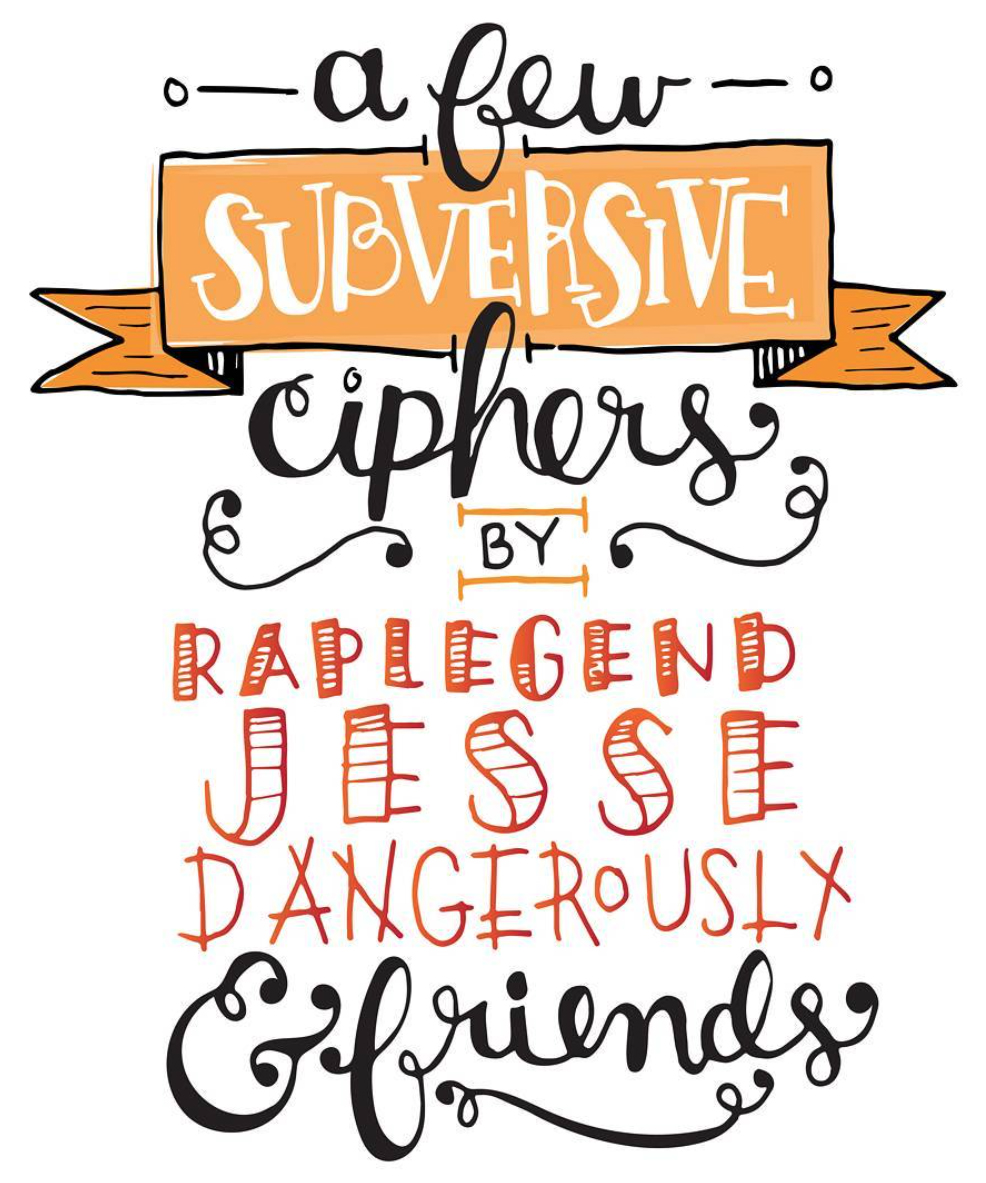
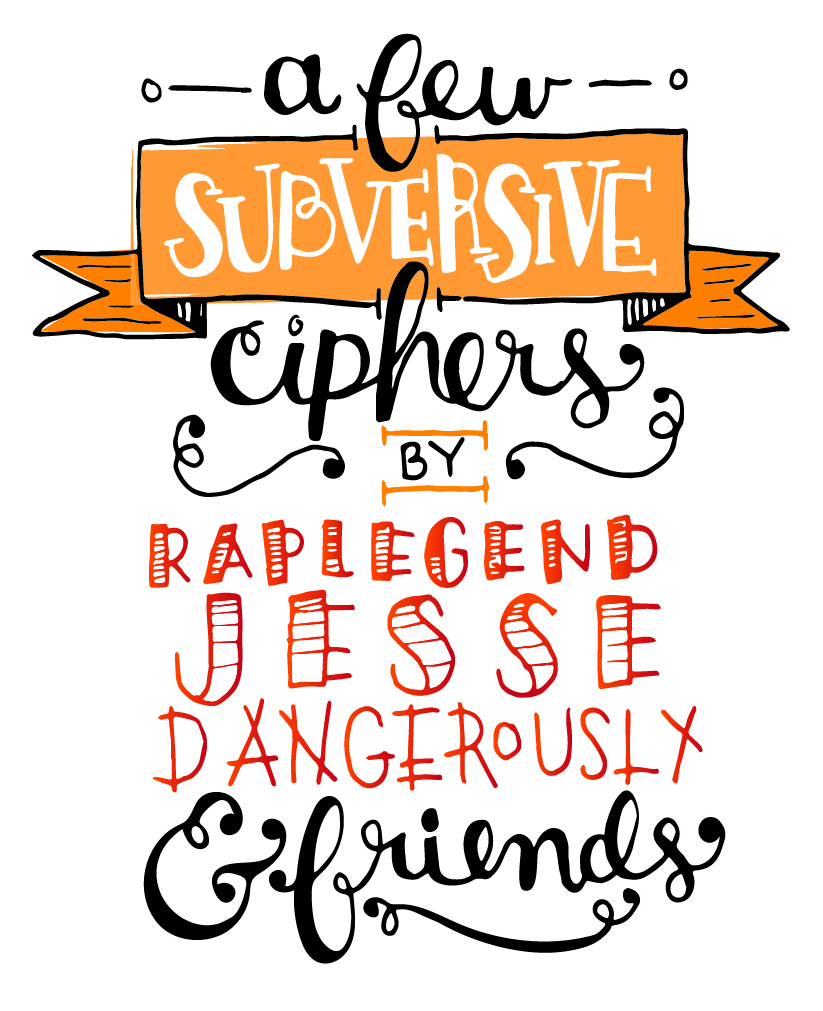
Re-did the entire lettering page

diff --git a/lettering.html b/lettering.html
@@ -6,37 +6,60 @@ title: Hand Lettering · Graphic Designer, Creative Professional · Ottawa, Cana
 <main class="island item-page">
 
   <div class="grid island wrapper">
-    <div class="unit xs-1 s-1 m-1-2 push-2">
-      <strong><img class="img-flex" src="{{site.baseurl}}/images/lettering-zine.jpg" alt="Hand Lettering"></strong>
+    <div class="unit xs-1 s-1 m-1-2 push-1-2">
+      <strong><img class="img-flex" src="{{site.baseurl}}/images/lettering-beer.jpg" alt="Hand Lettering"></strong>
     </div>
     <div class="unit xs-1 s-1 m-1-2 gutter pad-r-2">
       <h1 class="text-upper push-0">Hand Lettering</h1>
       <h2 class="mega">Typography, Lettering</h2>
       <hr>
-      <p class="kilo">I love to explore handlettering and am constantly practicing to improve this skill. When I'm relaxing at home, I'm often sketching in my notebook the lyrics to whatever music I'm listening to.</p>
-      <p class="kilo">I lettered the piece on the left as the cover to musician, Jesse Dangerously's cassette tape and lyric zine. I also love writing messages on cakes at the bakery I work at, Little Jo Berry's. I also did a large handlettered piece on the back of a door at the bakery as well.</p>
+      <p class="kilo">I love to explore handlettering and am constantly practicing to improve this skill. When I'm relaxing at home, I'm often sketching in my notebook the lyrics to whatever music I'm listening to or a quote from my favourite movie.</p>
+      <p class="kilo">I created the branding for a fictional beer company to showcase some of the possibilties of handlettered design.</p>
     </div>
   </div>
 
   <div class="grid max-width">
-    <div class="unit xs-1 s-1 m-1-4 gutter-1-4">
-      <figure>
-        <img class="img-flex" src="{{site.baseurl}}/images/lettering-cake.jpg" alt="Halloween Event Poster">
-        <figcaption>
-          <p class="milli push-0 text-center"></p>
-        </figcaption>
-      </figure>
+    <div class="unit xs-1 s-1-2 m-1-4 gutter-1-4 push-1-2">
+      <img class="img-flex" src="{{site.baseurl}}/images/lettering-beer2.png" alt="Initial sketches of the logo and beer type lettering.">
     </div>
-    <div class="unit xs-1 s-1 m-1-4 gutter-1-4">
-      <img class="img-flex" src="{{site.baseurl}}/images/lettering-cake2.jpg" alt="Halloween Event Poster">
+    <div class="unit xs-1 s-1-2 m-1-4 push-1-2 gutter-1-4">
+      <img class="img-flex" src="{{site.baseurl}}/images/index/index-lettering.jpg" alt="Finished beer labels.">
     </div>
-    <div class="unit xs-1 s-1 m-1-4 gutter-1-4">
-      <img class="img-flex" src="{{site.baseurl}}/images/lettering-cards.jpg" alt="Halloween Event Poster">
+    <div class="unit xs-1 s-1-2 m-1-4 gutter-1-4 push-1-2">
+      <img class="img-flex" src="{{site.baseurl}}/images/lettering-b-cards.jpg" alt="Business cards for fictional beer company.">
     </div>
-    <div class="unit xs-1 s-1 m-1-4 gutter-1-4">
-      <img class="img-flex" src="{{site.baseurl}}/images/lettering-door.jpg" alt="Halloween Event Poster">
+    <div class="unit xs-1 s-1 m-3-4 gutter-1-4 push-2">
+      <hr>
+      <p>I love craft beers, so I wanted to try designing an eye-catching beer label. I handlettered the logo as well as the type of beer for each the label. I used colour to define the visually define the different beers' identities. I also brought the logo throguh to a set of business cards.</p>
     </div>
+  </div>
 
+  <div class="grid max-width">
+    <div class="unit xs-1 s-1-2 m-1-4 gutter-1-4 push-1-2">
+      <img class="img-flex" src="{{site.baseurl}}/images/lettering-cake.jpg" alt="Handlettering on a cake.">
+    </div>
+    <div class="unit xs-1 s-1-2 m-1-4 gutter-1-4 push-1-2">
+      <img class="img-flex" src="{{site.baseurl}}/images/lettering-cake2.jpg" alt="Handlettering on a cake.">
+    </div>
+    <div class="unit xs-1 s-1 m-1-4 gutter-1-4 push-1-2">
+      <img class="img-flex" src="{{site.baseurl}}/images/lettering-door.jpg" alt="Handlettering on a door.">
+    </div>
+    <div class="unit xs-1 s-1 m-3-4 gutter-1-4 push-2">
+      <hr>
+      <p>These are a few examples of cakes I have lettered for the bakery I work at, Little Jo Berry's. I also handlettered the back of a door at the bakery with the tagline that the owner uses in her social media posts, "Break Up With Your Boyfriend."</p>
+    </div>
+  </div>
+
+    <div class="unit xs-1 s-1 m-1-4 gutter-1-4 push-1-2">
+      <img class="img-flex" src="{{site.baseurl}}/images/lettering-zine.jpg" alt="Handlettering for musician's zine..">
+    </div>
+    <div class="unit xs-1 s-1 m-1-4 gutter-1-4 push-1-2">
+      <img class="img-flex" src="{{site.baseurl}}/images/lettering-zine2.jpg" alt="Handlettering for musician's zine..">
+    </div>
+    <div class="unit xs-1 s-1 m-3-4 gutter-1-4 push-2">
+      <hr>
+      <p>I handlettered the cover of a local musician's album cover for his cassette release. He also used this piece for the cover of a lyrics zine he distributed to his fans.</p>
+    </div>
   </div>
 
 </main>

diff --git a/css/main.css b/css/main.css
@@ -99,13 +99,14 @@ nav a:hover {
 }
 
 .index-title {
-  background-color: #f7c241;
+  background-color: white;
   color: black;
+  opacity: 0.8;
 }
 
 .index-lettering {
-  padding-left: 33%;
-  padding-right: 33%;
+  padding-left: 34%;
+  padding-right: 34%;
 }
 
 /*-----------------------FOOTER---------------------*/
